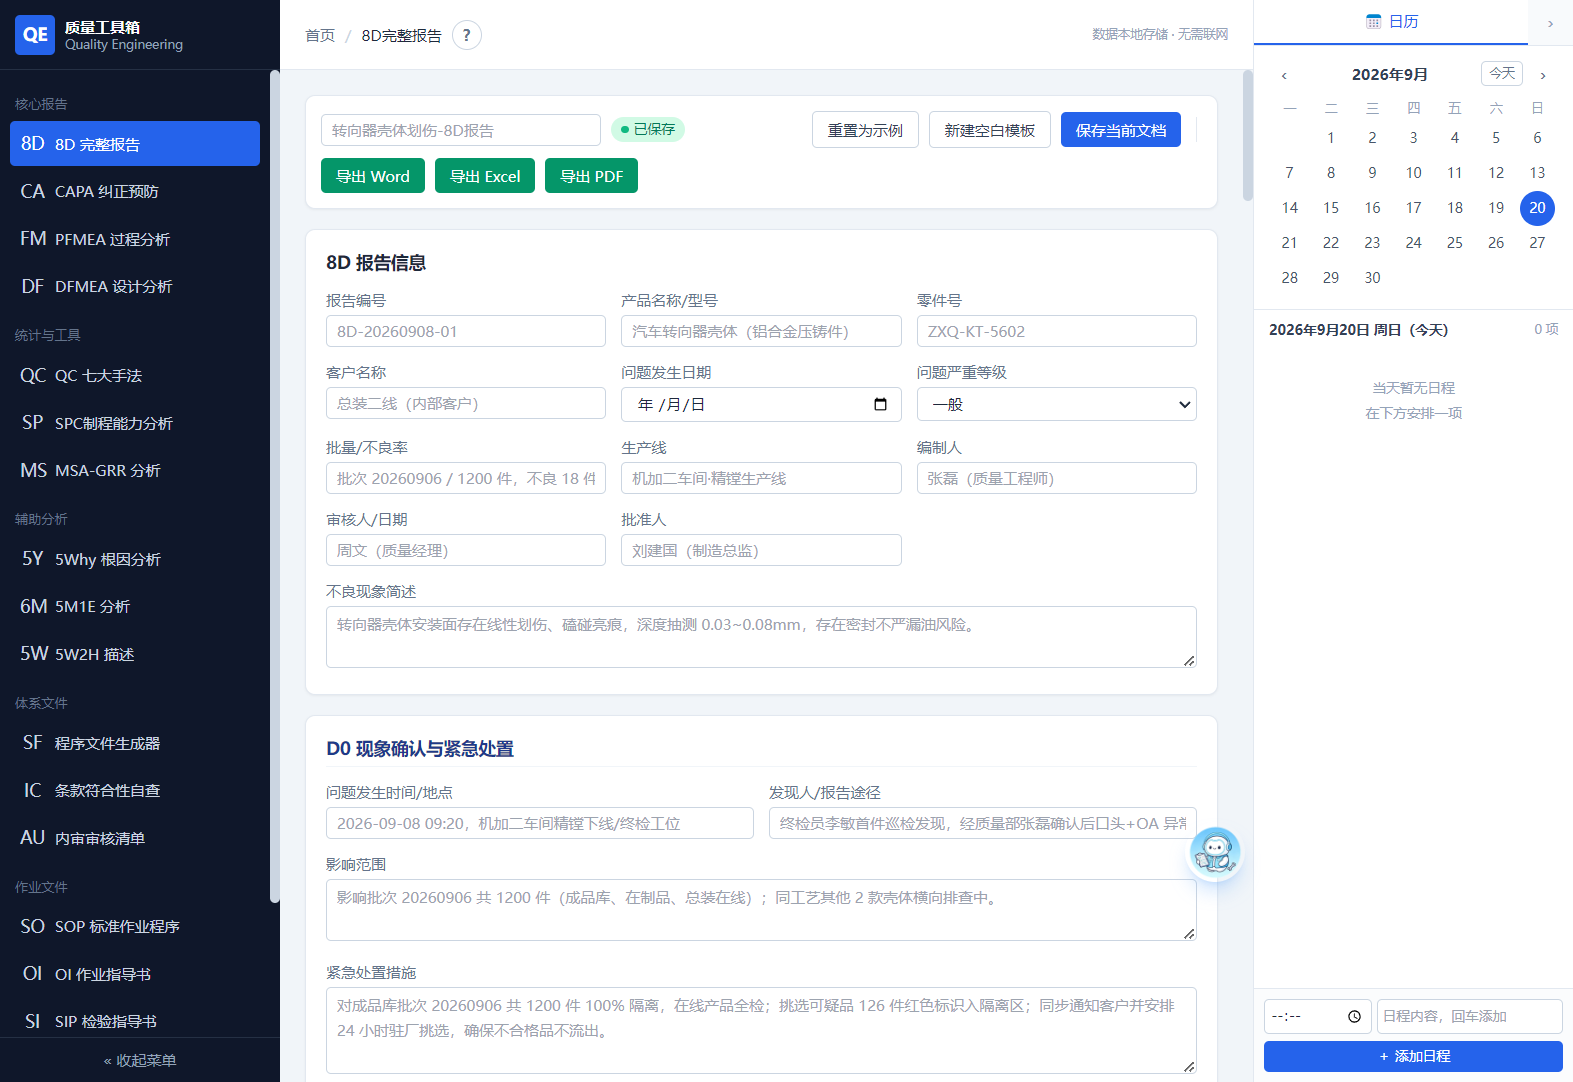
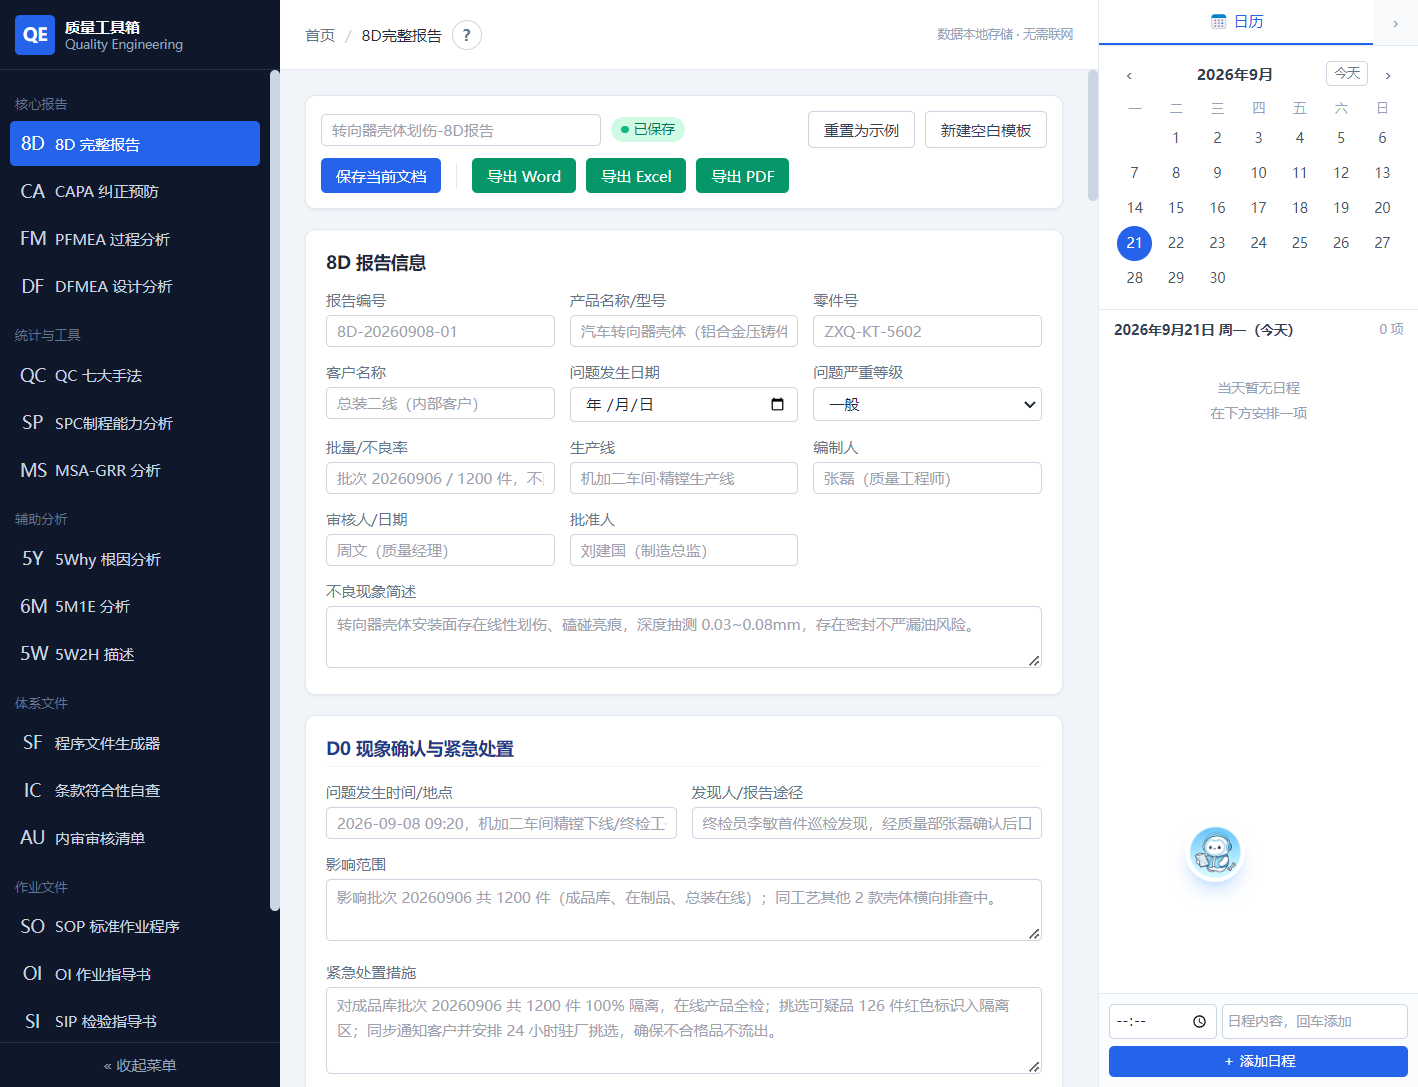
v2.2.5: SPC 2026新版标识、开场动画升级、截图更新、版本升级

diff --git a/index.html b/index.html
@@ -22,6 +22,8 @@
 <meta name="twitter:card" content="summary_large_image" />
 <meta name="twitter:title" content="星耀质量工具箱" />
 <meta name="twitter:description" content="纯本地质量工程师桌面工具，SPC/MSA/FMEA/8D 一站式解决。" />
+<link rel="preconnect" href="https://fonts.googleapis.cn" />
+<link href="https://fonts.googleapis.cn/css2?family=Noto+Serif+SC:wght@700;900&family=ZCOOL+XiaoWei&display=swap" rel="stylesheet" />
 <script src="https://cdn.tailwindcss.com"></script>
 <style>
   :root {
@@ -32,93 +34,120 @@
 
   html { scroll-behavior: smooth; }
 
-  /* ===== 开场动画：星耀旋转淡入 ===== */
+  /* ===== 开场动画：星耀 · 高级版 ===== */
   .splash {
     position: fixed; inset: 0; z-index: 9999;
-    background: radial-gradient(circle at 50% 50%, #1e1b4b 0%, #0f172a 60%, #020617 100%);
+    background: radial-gradient(ellipse at 50% 40%, #1e1b4b 0%, #0f172a 55%, #020617 100%);
     display: flex; align-items: center; justify-content: center;
     overflow: hidden;
   }
+  /* 背景星星 */
   .splash.star {
     position: absolute; width: 2px; height: 2px; border-radius: 50%;
     background: #fff; opacity: 0;
-    animation: twinkle 2s ease-in-out infinite;
+    animation: twinkle 2.5s ease-in-out infinite;
   }
   @keyframes twinkle {
     0%, 100% { opacity: 0; transform: scale(0.5); }
-    50% { opacity: 1; transform: scale(1.4); }
+    50% { opacity: 0.9; transform: scale(1.5); }
   }
+  /* 中心光晕 */
   .splash-glow {
-    position: absolute; width: 420px; height: 420px; border-radius: 50%;
-    background: radial-gradient(circle, rgba(139,92,246,0.35) 0%, rgba(99,102,241,0.15) 40%, transparent 70%);
-    filter: blur(20px);
+    position: absolute; width: 500px; height: 500px; border-radius: 50%;
+    background: radial-gradient(circle, rgba(139,92,246,0.4) 0%, rgba(99,102,241,0.18) 35%, transparent 70%);
+    filter: blur(30px);
     animation: pulseGlow 3s ease-in-out infinite;
   }
   @keyframes pulseGlow {
-    0%, 100% { transform: scale(0.85); opacity: 0.6; }
-    50% { transform: scale(1.1); opacity: 1; }
+    0%, 100% { transform: scale(0.8); opacity: 0.5; }
+    50% { transform: scale(1.15); opacity: 1; }
   }
+  /* 旋转光环 */
+  .splash-ring {
+    position: absolute; width: 320px; height: 320px; border-radius: 50%;
+    border: 1px solid rgba(139,92,246,0.3);
+    animation: ringRotate 8s linear infinite;
+  }
+  .splash-ring::before {
+    content: ""; position: absolute; top: -3px; left: 50%;
+    width: 6px; height: 6px; border-radius: 50%;
+    background: #c4b5fd; box-shadow: 0 0 12px #a78bfa;
+    transform: translateX(-50%);
+  }
+  .splash-ring2 {
+    position: absolute; width: 240px; height: 240px; border-radius: 50%;
+    border: 1px dashed rgba(34,211,238,0.25);
+    animation: ringRotate 12s linear infinite reverse;
+  }
+  @keyframes ringRotate {
+    from { transform: rotate(0deg); }
+    to { transform: rotate(360deg); }
+  }
+  /* 标题 —— 思源宋体 + 金属质感 + 旋转淡入 */
   .splash-title {
     position: relative;
-    font-family: "PingFang SC", "Microsoft YaHei", sans-serif;
+    font-family: "Noto Serif SC", "Songti SC", "SimSun", serif;
     font-weight: 900;
-    font-size: clamp(72px, 16vw, 180px);
-    letter-spacing: 0.12em;
-    /* 金属质感多层渐变 */
+    font-size: clamp(80px, 18vw, 200px);
+    letter-spacing: 0.15em;
     background: linear-gradient(180deg,
       #ffffff 0%,
-      #e0e7ff 15%,
-      #c4b5fd 35%,
-      #a78bfa 50%,
-      #818cf8 65%,
-      #6366f1 80%,
+      #f5f3ff 12%,
+      #ddd6fe 30%,
+      #c4b5fd 48%,
+      #a78bfa 62%,
+      #818cf8 78%,
       #22d3ee 100%);
     -webkit-background-clip: text; background-clip: text;
     -webkit-text-fill-color: transparent;
-    /* 多重投影模拟金属高光与深度 */
-    filter: drop-shadow(0 2px 4px rgba(139,92,246,0.4))
-            drop-shadow(0 0 30px rgba(129,140,248,0.5))
-            drop-shadow(0 0 60px rgba(99,102,241,0.3));
+    filter: drop-shadow(0 2px 6px rgba(139,92,246,0.5))
+            drop-shadow(0 0 40px rgba(129,140,248,0.55))
+            drop-shadow(0 0 80px rgba(99,102,241,0.35));
     opacity: 0;
-    transform: rotateY(-90deg) scale(0.4) translateY(20px);
-    animation: starYaoIn 2s cubic-bezier(0.22, 1, 0.36, 1) 0.3s forwards;
+    transform: rotateY(120deg) scale(0.3);
+    animation: starYaoIn 2.2s cubic-bezier(0.22, 1, 0.36, 1) 0.4s forwards;
   }
   /* 高光扫过 */
   .splash-title::after {
     content: "星耀";
     position: absolute; inset: 0;
-    background: linear-gradient(110deg,
-      transparent 30%,
-      rgba(255,255,255,0.8) 45%,
-      rgba(255,255,255,0.4) 50%,
-      transparent 60%);
+    background: linear-gradient(105deg,
+      transparent 25%,
+      rgba(255,255,255,0.85) 42%,
+      rgba(255,255,255,0.3) 50%,
+      transparent 65%);
     -webkit-background-clip: text; background-clip: text;
     -webkit-text-fill-color: transparent;
     opacity: 0;
-    animation: shine 3s ease-in-out 1.5s infinite;
+    animation: shine 3.5s ease-in-out 1.8s infinite;
   }
   @keyframes shine {
-    0%, 100% { opacity: 0; transform: translateX(-30%); }
-    50% { opacity: 1; transform: translateX(30%); }
+    0%, 100% { opacity: 0; transform: translateX(-35%); }
+    50% { opacity: 1; transform: translateX(35%); }
   }
   @keyframes starYaoIn {
-    0%   { opacity: 0; transform: rotateY(-90deg) scale(0.4) translateY(20px); filter: blur(8px); }
-    50%  { opacity: 1; filter: blur(0); }
-    70%  { transform: rotateY(10deg) scale(1.06) translateY(0); }
-    100% { opacity: 1; transform: rotateY(0deg) scale(1) translateY(0); filter: blur(0); }
+    0%   { opacity: 0; transform: rotateY(120deg) scale(0.3); filter: blur(12px); }
+    40%  { opacity: 1; filter: blur(0); }
+    65%  { transform: rotateY(-12deg) scale(1.08); }
+    100% { opacity: 1; transform: rotateY(0deg) scale(1); filter: blur(0); }
   }
   .splash-sub {
-    position: absolute; bottom: 28%; left: 50%; transform: translateX(-50%);
-    color: rgba(255,255,255,0.7); font-size: 14px; letter-spacing: 0.4em;
-    opacity: 0; animation: fadeUp 0.8s ease 1.6s forwards;
+    position: absolute; bottom: 26%; left: 50%; transform: translateX(-50%);
+    color: rgba(255,255,255,0.65); font-size: 13px; letter-spacing: 0.5em;
+    font-family: "ZCOOL XiaoWei", serif;
+    opacity: 0; animation: fadeUp 1s ease 1.8s forwards;
   }
   @keyframes fadeUp {
-    from { opacity: 0; transform: translate(-50%, 12px); }
+    from { opacity: 0; transform: translate(-50%, 14px); }
     to { opacity: 1; transform: translate(-50%, 0); }
   }
-  .splash-out { animation: splashOut 0.7s ease forwards; }
+  /* 出场：旋转淡出 */
+  .splash-out {
+    animation: splashOut 0.8s cubic-bezier(0.55, 0, 0.55, 0.2) forwards;
+  }
   @keyframes splashOut {
-    to { opacity: 0; transform: scale(1.05); visibility: hidden; }
+    0%   { opacity: 1; transform: scale(1) rotateY(0deg); }
+    100% { opacity: 0; transform: scale(1.1) rotateY(45deg); visibility: hidden; }
   }
 
   /* 通用渐变文字 */
@@ -161,6 +190,8 @@
   <!-- 背景星星 -->
   <div id="stars"></div>
   <div class="splash-glow"></div>
+  <div class="splash-ring"></div>
+  <div class="splash-ring2"></div>
   <div class="splash-title">星耀</div>
   <div class="splash-sub">Q U A L I T Y &nbsp; T O O L B O X</div>
 </div>
@@ -178,13 +209,7 @@
       <a href="#download" class="hover:text-indigo-600 transition">下载</a>
       <a href="#faq" class="hover:text-indigo-600 transition">常见问题</a>
     </nav>
-    <div class="flex items-center gap-2">
-      <!-- 下载加速提示图标 -->
-      <button id="speedTipBtn" class="w-9 h-9 rounded-lg hover:bg-slate-100 flex items-center justify-center transition" title="下载太慢？点这里">
-        <img src="assets/wangye.png" alt="下载加速" class="w-7 h-7 rounded" />
-      </button>
-      <a href="#download" class="btn-primary text-white text-sm px-4 py-2 rounded-lg font-medium">立即下载</a>
-    </div>
+    <a href="#download" class="btn-primary text-white text-sm px-4 py-2 rounded-lg font-medium">立即下载</a>
   </div>
 </header>
 
@@ -196,7 +221,7 @@
     <div class="relative max-w-7xl mx-auto px-6 py-20 md:py-28 text-center">
       <div class="inline-flex items-center gap-2 px-3 py-1 rounded-full bg-indigo-50 border border-indigo-100 text-xs text-indigo-600 mb-6">
         <span class="w-1.5 h-1.5 rounded-full bg-indigo-500 animate-pulse"></span>
-        v2.2.4 已发布 · 纯本地运行 · 无需联网
+        v2.2.5 已发布 · SPC 2026 新版 · 纯本地运行
       </div>
       <!-- 质量工具箱图标 -->
       <div class="flex justify-center mb-6">
@@ -217,11 +242,11 @@
       </div>
 
       <div class="flex flex-col sm:flex-row items-center justify-center gap-4">
-        <a href="https://gitee.com/xiaotng387724188/xingyao/releases/download/V2.2.4/%E8%B4%A8%E9%87%8F%E5%B7%A5%E5%85%B7%E7%AE%B1%20Setup%202.2.4.exe" class="btn-primary text-white px-8 py-3.5 rounded-xl font-semibold shadow-lg shadow-indigo-500/30 flex items-center gap-2">
+        <a href="https://gitee.com/xiaotng387724188/xingyao/releases/download/V2.2.5/%E8%B4%A8%E9%87%8F%E5%B7%A5%E5%85%B7%E7%AE%B1%20Setup%202.2.4.exe" class="btn-primary text-white px-8 py-3.5 rounded-xl font-semibold shadow-lg shadow-indigo-500/30 flex items-center gap-2">
           <svg class="w-5 h-5" fill="none" stroke="currentColor" viewBox="0 0 24 24"><path stroke-linecap="round" stroke-linejoin="round" stroke-width="2" d="M4 16v1a3 3 0 003 3h10a3 3 0 003-3v-1m-4-4l-4 4m0 0l-4-4m4 4V4"/></svg>
           下载安装版
         </a>
-        <a href="https://gitee.com/xiaotng387724188/xingyao/releases/download/V2.2.4/%E8%B4%A8%E9%87%8F%E5%B7%A5%E5%85%B7%E7%AE%B1-Portable-2.2.4.exe" class="btn-ghost border border-slate-300 text-slate-700 px-8 py-3.5 rounded-xl font-semibold flex items-center gap-2">
+        <a href="https://gitee.com/xiaotng387724188/xingyao/releases/download/V2.2.5/%E8%B4%A8%E9%87%8F%E5%B7%A5%E5%85%B7%E7%AE%B1-Portable-2.2.5.exe" class="btn-ghost border border-slate-300 text-slate-700 px-8 py-3.5 rounded-xl font-semibold flex items-center gap-2">
           <svg class="w-5 h-5" fill="none" stroke="currentColor" viewBox="0 0 24 24"><path stroke-linecap="round" stroke-linejoin="round" stroke-width="2" d="M12 8v4l3 3m6-3a9 9 0 11-18 0 9 9 0 0118 0z"/></svg>
           下载便携版
         </a>
@@ -243,10 +268,11 @@
           <h3 class="text-lg font-bold mb-2">8D 完整报告</h3>
           <p class="text-sm text-slate-600 leading-relaxed">D0-D8 全流程，内嵌 5Why 根因分析与鱼骨图，支持图片粘贴，一键导出 Word / Excel / PDF。</p>
         </div>
-        <div class="feature-card p-6 rounded-2xl bg-gradient-to-br from-purple-50 to-white border border-purple-100">
+        <div class="feature-card p-6 rounded-2xl bg-gradient-to-br from-purple-50 to-white border border-purple-100 relative overflow-hidden">
+          <div class="absolute top-3 right-3 px-2 py-0.5 rounded-full bg-gradient-to-r from-purple-600 to-indigo-600 text-white text-[10px] font-bold shadow">2026 新版</div>
           <div class="w-12 h-12 rounded-xl bg-purple-600 text-white flex items-center justify-center text-lg font-bold mb-4">SP</div>
           <h3 class="text-lg font-bold mb-2">SPC 制程能力</h3>
-          <p class="text-sm text-slate-600 leading-relaxed">支持 Pm/Pmk、Pp/Ppk、Cp/Cpk 三种研究，X-R 控制图、正态性检验、OCAP 行动计划全包含。</p>
+          <p class="text-sm text-slate-600 leading-relaxed">2026 新版：支持 Pm/Pmk、Pp/Ppk、Cp/Cpk 三种研究，X-R 控制图、正态性检验、OCAP 行动计划全包含。</p>
         </div>
         <div class="feature-card p-6 rounded-2xl bg-gradient-to-br from-cyan-50 to-white border border-cyan-100">
           <div class="w-12 h-12 rounded-xl bg-cyan-600 text-white flex items-center justify-center text-lg font-bold mb-4">MS</div>
@@ -350,7 +376,7 @@
           <img src="screenshots/spc.png" alt="SPC 制程能力分析" class="w-full h-auto" loading="lazy" />
         </div>
         <div class="shot-frame">
-          <img src="screenshots/msa.png" alt="MSA 测量系统分析" class="w-full h-auto" loading="lazy" />
+          <img src="screenshots/msa-chart.png" alt="MSA 测量系统分析" class="w-full h-auto" loading="lazy" />
         </div>
         <div class="shot-frame">
           <img src="screenshots/xr-chart.png" alt="X-R 控制图" class="w-full h-auto" loading="lazy" />
@@ -367,7 +393,7 @@
     <div class="max-w-5xl mx-auto px-6">
       <div class="text-center mb-12">
         <h2 class="text-3xl md:text-4xl font-bold mb-3">立即下载</h2>
-        <p class="text-slate-500">当前版本 v2.2.4 · Windows 10 及以上</p>
+        <p class="text-slate-500">当前版本 v2.2.5 · Windows 10 及以上</p>
       </div>
       <div class="grid md:grid-cols-2 gap-6">
         <div class="bg-white rounded-2xl p-8 shadow-xl shadow-indigo-100/50 border border-indigo-100 text-center">
@@ -376,8 +402,8 @@
           </div>
           <h3 class="text-xl font-bold mb-1">安装版</h3>
           <p class="text-sm text-slate-500 mb-6">标准 NSIS 安装程序，含桌面快捷方式与开始菜单</p>
-          <div class="text-xs text-slate-400 mb-4">质量工具箱 Setup 2.2.4.exe · 65.5 MB</div>
-          <a href="https://gitee.com/xiaotng387724188/xingyao/releases/download/V2.2.4/%E8%B4%A8%E9%87%8F%E5%B7%A5%E5%85%B7%E7%AE%B1%20Setup%202.2.4.exe" class="btn-primary block text-white py-3 rounded-xl font-semibold">下载安装版</a>
+          <div class="text-xs text-slate-400 mb-4">质量工具箱 Setup 2.2.5.exe · 65.5 MB</div>
+          <a href="https://gitee.com/xiaotng387724188/xingyao/releases/download/V2.2.5/%E8%B4%A8%E9%87%8F%E5%B7%A5%E5%85%B7%E7%AE%B1%20Setup%202.2.4.exe" class="btn-primary block text-white py-3 rounded-xl font-semibold">下载安装版</a>
           <p class="text-[11px] text-slate-400 mt-3">支持自定义安装路径 · 可卸载</p>
         </div>
         <div class="bg-white rounded-2xl p-8 shadow-xl shadow-purple-100/50 border border-purple-100 text-center">
@@ -386,8 +412,8 @@
           </div>
           <h3 class="text-xl font-bold mb-1">便携版</h3>
           <p class="text-sm text-slate-500 mb-6">单文件免安装，解压即用，不写注册表</p>
-          <div class="text-xs text-slate-400 mb-4">质量工具箱-Portable-2.2.4.exe · 74.9 MB</div>
-          <a href="https://gitee.com/xiaotng387724188/xingyao/releases/download/V2.2.4/%E8%B4%A8%E9%87%8F%E5%B7%A5%E5%85%B7%E7%AE%B1-Portable-2.2.4.exe" class="btn-primary block text-white py-3 rounded-xl font-semibold">下载便携版</a>
+          <div class="text-xs text-slate-400 mb-4">质量工具箱-Portable-2.2.5.exe · 74.9 MB</div>
+          <a href="https://gitee.com/xiaotng387724188/xingyao/releases/download/V2.2.5/%E8%B4%A8%E9%87%8F%E5%B7%A5%E5%85%B7%E7%AE%B1-Portable-2.2.5.exe" class="btn-primary block text-white py-3 rounded-xl font-semibold">下载便携版</a>
           <p class="text-[11px] text-slate-400 mt-3">首次启动自动解压 · 二次启动 1 秒</p>
         </div>
       </div>

diff --git a/shot3.py b/shot3.py
@@ -1,0 +1,97 @@
+import websocket
+import json
+import base64
+import time
+
+WS_URL = "ws://localhost:9230/devtools/page/2DB0EC928B8C9E4CA9AB3772CD6EC899"
+OUT = r"C:\Users\tang\Desktop\质量\site\screenshots"
+
+ws = websocket.create_connection(WS_URL)
+_id = 0
+
+def send(method, params=None):
+    global _id
+    _id += 1
+    msg = {"id": _id, "method": method, "params": params or {}}
+    ws.send(json.dumps(msg))
+    return _id
+
+def wait_resp(target_id):
+    while True:
+        raw = ws.recv()
+        try:
+            o = json.loads(raw)
+            if o.get("id") == target_id:
+                return o
+        except:
+            pass
+
+def evaluate(expr):
+    mid = send("Runtime.evaluate", {"expression": expr, "returnByValue": True})
+    r = wait_resp(mid)
+    return r.get("result", {}).get("result", {}).get("value")
+
+def shot_element(selector, filepath, padding=20):
+    """截取指定元素区域"""
+    rect = evaluate(f"""
+        (function() {{
+            var el = document.querySelector('{selector}');
+            if (!el) return null;
+            var r = el.getBoundingClientRect();
+            return {{x: r.left, y: r.top, w: r.width, h: r.height}};
+        }})()
+    """)
+    if not rect:
+        print(f"element not found: {selector}")
+        return False
+    clip = {
+        "x": max(0, rect["x"] - padding),
+        "y": max(0, rect["y"] - padding),
+        "width": rect["w"] + padding * 2,
+        "height": rect["h"] + padding * 2,
+        "scale": 1
+    }
+    mid = send("Page.captureScreenshot", {"format": "png", "fromSurface": True, "clip": clip})
+    r = wait_resp(mid)
+    data = r.get("result", {}).get("data")
+    if data:
+        with open(filepath, "wb") as f:
+            f.write(base64.b64decode(data))
+        print(f"saved {filepath}")
+        return True
+    print(f"failed {filepath}")
+    return False
+
+def shot_full(filepath):
+    mid = send("Page.captureScreenshot", {"format": "png", "fromSurface": True})
+    r = wait_resp(mid)
+    data = r.get("result", {}).get("data")
+    if data:
+        with open(filepath, "wb") as f:
+            f.write(base64.b64decode(data))
+        print(f"saved {filepath}")
+
+# 1. SPC - X-R 控制图（截取图表区域）
+evaluate("location.hash = '#/spc'")
+time.sleep(3)
+# 找控制图的 canvas
+shot_element("canvas", f"{OUT}\\xr-chart.png", padding=30)
+
+# 2. QC 七大手法 - 鱼骨图
+evaluate("location.hash = '#/qc-seven'")
+time.sleep(3)
+# 鱼骨图可能是 canvas 或 svg，截取
+shot_element("canvas, svg", f"{OUT}\\fishbone.png", padding=30)
+
+# 3. MSA - 截取图表
+evaluate("location.hash = '#/msa'")
+time.sleep(3)
+shot_element("canvas", f"{OUT}\\msa-chart.png", padding=30)
+
+# 4. 主界面全截
+evaluate("location.hash = '/'")
+time.sleep(2)
+shot_full(f"{OUT}\\main.png")
+
+ws.close()
+print("done")
